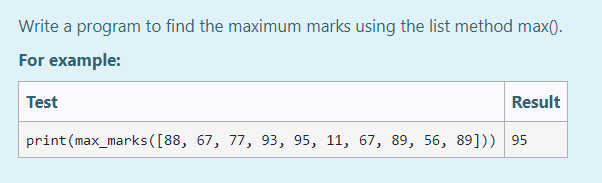
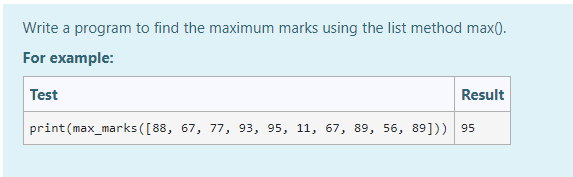
add

Changed region(s): [[0.0, 0.0, 1.0, 1.0]]

diff --git a/README.md b/README.md
@@ -43,7 +43,7 @@ def max_marks(list1):
 ```
 ## Sample Input and Output
 i)
-![output](./img/max_marks1.jpg) 
+![Alt text](image-5.png)
 ii)
 ![Alt text](image-3.png)
 iii)
